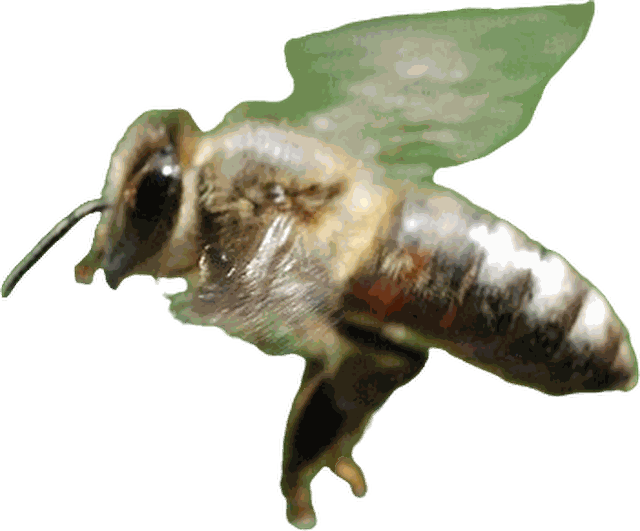
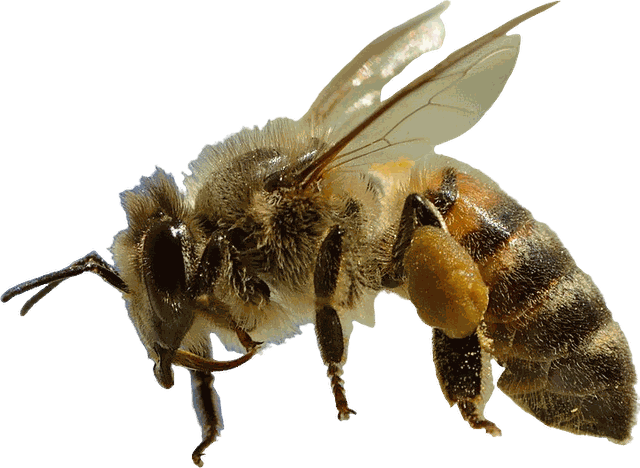
fix(art): ong, cáo, ngựa vằn, gấu túi, mèo khách dùng ảnh thật sạch nét; gấu nâu sáng hơn
- world-photos: ong nhìn ngang (bỏ ảnh cận viền xanh), cáo và ngựa vằn ảnh nghiêng đủ bốn chân thay model low-poly,
  gấu túi giữ 32-bit (hết bệt màu, răng cưa), mèo cắt sát thân cho khách Bếp nấu ăn (hết đứng trên không sau quầy)
- world-photos.mjs: chạy riêng vài ảnh, tuỳ chọn hq / degreen / roundEnd; CREDITS ghi nguồn và chỉnh sửa
- look.ts: fox, zebra sang photo('walk'); bright nhân sáng vật liệu (gấu), voi nhấc chân thấp hơn (đỡ lộ gan bàn chân đen)

diff --git a/app/src/ui/hybrid/RealAnimal.tsx b/app/src/ui/hybrid/RealAnimal.tsx
@@ -1,7 +1,7 @@
 import { useEffect, useMemo, useRef } from 'react';
 import { useFrame } from '@react-three/fiber';
 import { useAnimations, useGLTF } from '@react-three/drei';
-import { Box3, Group, BufferGeometry, Euler, Float32BufferAttribute, LoopRepeat, Matrix4, Vector3, type BufferAttribute, type Material, type Mesh, type Object3D, type SkinnedMesh } from 'three';
+import { Box3, Group, BufferGeometry, type Color, Euler, Float32BufferAttribute, LoopRepeat, Matrix4, Vector3, type BufferAttribute, type Material, type Mesh, type Object3D, type SkinnedMesh } from 'three';
 import { clone as cloneSkinned } from 'three/examples/jsm/utils/SkeletonUtils.js';
 import { reactJump, type Agent } from '../../core/steer';
 import type { WorldAnimal } from '../../core/worldAnimals';
@@ -24,7 +24,14 @@ type Part = { geo: BufferGeometry; base: Float32Array; mat: Material };
 type Baked = { parts: Part[]; box: Box3 };
 
 /** Gộp mọi mesh tĩnh về hệ toạ độ của gốc model, xoay về chuẩn */
-function bake(scene: Object3D, rot: Matrix4, skip?: string): Baked {
+/** Bản sao vật liệu sáng hơn `k` lần (nhân màu nền; texture giữ nguyên, không đụng vật liệu trong cache của useGLTF) */
+function brighter(mat: Material, k: number): Material {
+  const c = mat.clone() as Material & { color?: Color };
+  c.color?.multiplyScalar(k);
+  return c;
+}
+
+function bake(scene: Object3D, rot: Matrix4, skip?: string, bright = 1): Baked {
   scene.updateMatrixWorld(true);
   const inv = new Matrix4().copy(scene.matrixWorld).invert();
   const parts: Part[] = [];
@@ -62,7 +69,7 @@ function bake(scene: Object3D, rot: Matrix4, skip?: string): Baked {
     g.applyMatrix4(new Matrix4().multiplyMatrices(rot, new Matrix4().multiplyMatrices(inv, m.matrixWorld)));
     g.computeBoundingBox();
     box.union(g.boundingBox!);
-    parts.push({ geo: g, base: Float32Array.from(g.attributes.position.array), mat });
+    parts.push({ geo: g, base: Float32Array.from(g.attributes.position.array), mat: bright !== 1 ? brighter(mat, bright) : mat });
   });
   return { parts, box };
 }
@@ -101,9 +108,9 @@ export function RealAnimal({ def, look, agent, active, phase, onTap, onLoaded }:
       tilt.updateMatrixWorld(true);
       return { skinned: tilt, baked: null, box: new Box3().setFromObject(tilt, true) };
     }
-    const b = bake(gltf.scene, new Matrix4().makeRotationX(pitch).multiply(new Matrix4().makeRotationY(turn)).multiply(new Matrix4().makeRotationFromEuler(new Euler(rx, ry, rz))), look.skip);
+    const b = bake(gltf.scene, new Matrix4().makeRotationX(pitch).multiply(new Matrix4().makeRotationY(turn)).multiply(new Matrix4().makeRotationFromEuler(new Euler(rx, ry, rz))), look.skip, look.bright);
     return { skinned: null, baked: b, box: b.box };
-  }, [animated, gltf.scene, rx, ry, rz, turn, pitch, look.skip]);
+  }, [animated, gltf.scene, rx, ry, rz, turn, pitch, look.skip, look.bright]);
   useEffect(() => () => baked?.parts.forEach((p) => p.geo.dispose()), [baked]);
 
   const { scale, offset, size } = useMemo(() => {

diff --git a/app/src/ui/hybrid/look.ts b/app/src/ui/hybrid/look.ts
@@ -64,6 +64,8 @@ export type ModelLook = {
   side?: boolean;
   /** bỏ mesh có tên (hoặc tên vật liệu) bắt đầu bằng chuỗi này: đĩa nền kèm theo model */
   skip?: string;
+  /** nhân độ sáng màu nền của vật liệu (texture quá tối: gấu nâu gần như đen dưới ánh sáng của cảnh) */
+  bright?: number;
   scale?: number;
 };
 
@@ -74,9 +76,10 @@ const photo = (style: PhotoStyle, extra: Partial<PhotoLook> = {}): PhotoLook => 
 export const WORLD_LOOK: Record<string, Look> = {
   // Đồng cỏ
   horse: { kind: 'model', file: 'horse', rot: [0, 0, 0], deform: 'walk' },
-  zebra: { kind: 'model', file: 'zebra', rot: [0, 0, 0], deform: 'walk' },
+  // ngựa vằn, cáo: model tìm được là low-poly (chân có khối đen vuông), lạc phong cách cạnh thú ảnh thật → ảnh thật 2.5D
+  zebra: photo('walk'),
   giraffe: { kind: 'model', file: 'giraffe', rot: [0, Math.PI, 0], deform: 'walk', bake: true, skip: 'Circle' },
-  elephant: { kind: 'model', file: 'elephant', rot: [0, -Math.PI / 2, 0], deform: 'walk', bake: true, stepAmp: 0.11, trunk: true, ears: true },
+  elephant: { kind: 'model', file: 'elephant', rot: [0, -Math.PI / 2, 0], deform: 'walk', bake: true, stepAmp: 0.07, trunk: true, ears: true },
   lion: photo('walk'),
   // Ao hồ
   frog: photo('hop'),
@@ -86,9 +89,9 @@ export const WORLD_LOOK: Record<string, Look> = {
   // Rừng
   deer: { kind: 'model', file: 'deer', rot: [0, 0, 0], deform: 'walk' },
   stag: { kind: 'model', file: 'stag', rot: [0, 0, 0], deform: 'walk' },
-  fox: { kind: 'model', file: 'fox', rot: [0, 0, 0], deform: 'none', move: 'Walk', idle: 'Survey' },
+  fox: photo('walk'),
   raccoon: photo('walk'),
-  bear: { kind: 'model', file: 'bear', rot: [0, -Math.PI / 2, 0], deform: 'walk' },
+  bear: { kind: 'model', file: 'bear', rot: [0, -Math.PI / 2, 0], deform: 'walk', bright: 2.4 },
   // Biển
   // clip bơi gốc lặn ngóc gần thẳng đứng: dùng dáng gốc + uốn đuôi lên xuống cho thân luôn nằm ngang
   whale: { kind: 'model', file: 'whale', rot: [0, 0, 0], turn: Math.PI / 2, pitch: 0.3, deform: 'fluke', bake: true, side: true },

diff --git a/app/src/games/cook/logic.ts b/app/src/games/cook/logic.ts
@@ -69,7 +69,7 @@ export const CUSTOMERS = [
   { id: 'penguin', img: 'world-photos/penguin.png', sound: 'animal.penguin-sound' },
   { id: 'rabbit', img: 'world-photos/rabbit.png', sound: 'animal.rabbit-sound' },
   { id: 'dog', img: 'world-photos/dog.png', sound: 'animal.dog-sound' },
-  { id: 'cat', img: 'cards/feed/cat.png', sound: 'feed.sound.cat' },
+  { id: 'cat', img: 'world-photos/cat.png', sound: 'feed.sound.cat' },
   { id: 'pig', img: 'world-photos/pig.png', sound: 'animal.pig-sound' },
 ] as const satisfies readonly Customer[];
 

diff --git a/app/public/world-photos/CREDITS.md b/app/public/world-photos/CREDITS.md
@@ -2,7 +2,7 @@
 
 Ảnh chụp thật lấy từ Wikimedia Commons, tách nền (BiRefNet-lite), cắt sát thân và thu nhỏ bằng
 `scripts/world-photos.mjs` (thay đổi so với ảnh gốc: cắt nền, cắt khung, đổi cỡ, giảm màu). Giấy phép giữ
-nguyên như ảnh gốc; ảnh CC BY-SA khi đã chỉnh sửa vẫn theo CC BY-SA.
+nguyên như ảnh gốc; ảnh CC BY-SA khi đã chỉnh sửa vẫn theo CC BY-SA. Riêng fox.png bo tròn chóp đuôi (ảnh gốc cắt mất chóp đuôi), koala.png khử ám xanh ở mép lông.
 
 | File | Ảnh gốc | Tác giả | Giấy phép | Dung lượng |
 |---|---|---|---|---|
@@ -14,11 +14,13 @@ nguyên như ảnh gốc; ảnh CC BY-SA khi đã chỉnh sửa vẫn theo CC BY
 | koi.png | [Japan-Koi.jpg](https://commons.wikimedia.org/wiki/File:Japan-Koi.jpg) | Immanuel Giel | [CC0](http://creativecommons.org/publicdomain/zero/1.0/deed.en) | 37 KB |
 | frog.png | [Green treefrog.jpg](https://commons.wikimedia.org/wiki/File:Green_treefrog.jpg) | Brian Gratwicke | [CC BY 2.0](https://creativecommons.org/licenses/by/2.0) | 53 KB |
 | duck.png | [Mallard Drake (Anas Platyrhynchos).jpg](https://commons.wikimedia.org/wiki/File:Mallard_Drake_(Anas_Platyrhynchos).jpg) | David Merrett | [CC BY 2.0](https://creativecommons.org/licenses/by/2.0) | 34 KB |
-| bee.png | [Honey bee flying.JPG](https://commons.wikimedia.org/wiki/File:Honey_bee_flying.JPG) | Devcore | [CC0](http://creativecommons.org/publicdomain/zero/1.0/deed.en) | 52 KB |
+| bee.png | [Apis mellifera - Prunus padus - Keila.jpg](https://commons.wikimedia.org/wiki/File:Apis_mellifera_-_Prunus_padus_-_Keila.jpg) | Ivar Leidus | [CC BY-SA 4.0](https://creativecommons.org/licenses/by-sa/4.0) | 76 KB |
 | parrot.png | [Scarlet Macaws -11 100- (33404691865).jpg](https://commons.wikimedia.org/wiki/File:Scarlet_Macaws_-11_100-_(33404691865).jpg) | Tim Sackton from Somerville, MA | [CC BY-SA 2.0](https://creativecommons.org/licenses/by-sa/2.0) | 29 KB |
 | bat.png | [Mauritian flying fox (Pteropus niger) in flight 3.jpg](https://commons.wikimedia.org/wiki/File:Mauritian_flying_fox_(Pteropus_niger)_in_flight_3.jpg) | Charles J. Sharp | [CC BY-SA 4.0](https://creativecommons.org/licenses/by-sa/4.0) | 22 KB |
 | pigeon.png | [Common pigeon at Waterlow Park, London 01.jpg](https://commons.wikimedia.org/wiki/File:Common_pigeon_at_Waterlow_Park,_London_01.jpg) | Satdeep Gill | [CC BY-SA 4.0](https://creativecommons.org/licenses/by-sa/4.0) | 75 KB |
 | raccoon.png | [Raccoon in Central Park (35264).jpg](https://commons.wikimedia.org/wiki/File:Raccoon_in_Central_Park_(35264).jpg) | Rhododendrites | [CC BY-SA 4.0](https://creativecommons.org/licenses/by-sa/4.0) | 117 KB |
+| fox.png | [Red fox walking across the sand and rocks. (cd648e7a-155d-451f-67c2-22e947c5a1c6).jpg](https://commons.wikimedia.org/wiki/File:Red_fox_walking_across_the_sand_and_rocks._(cd648e7a-155d-451f-67c2-22e947c5a1c6).jpg) | NPS | Public domain | 60 KB |
+| zebra.png | [A plains zebra 3.jpg](https://commons.wikimedia.org/wiki/File:A_plains_zebra_3.jpg) | Jozef020 | [CC BY-SA 4.0](https://creativecommons.org/licenses/by-sa/4.0) | 54 KB |
 | lion.png | [Lion (Panthera leo) walking on the road ... (50133447418).jpg](https://commons.wikimedia.org/wiki/File:Lion_(Panthera_leo)_walking_on_the_road_..._(50133447418).jpg) | Bernard DUPONT from FRANCE | [CC BY-SA 2.0](https://creativecommons.org/licenses/by-sa/2.0) | 68 KB |
 | tiger.png | [Bengal tiger in Sanjay Dubri Tiger Reserve December 2024 by Tisha Mukherjee 15.jpg](https://commons.wikimedia.org/wiki/File:Bengal_tiger_in_Sanjay_Dubri_Tiger_Reserve_December_2024_by_Tisha_Mukherjee_15.jpg) | Tisha Mukherjee | [CC BY-SA 4.0](https://creativecommons.org/licenses/by-sa/4.0) | 55 KB |
 | sheep.png | [Ovella. Galiza.jpg](https://commons.wikimedia.org/wiki/File:Ovella._Galiza.jpg) | Luis Miguel Bugallo Sánchez (Lmbuga) | [CC BY-SA 3.0](https://creativecommons.org/licenses/by-sa/3.0) | 101 KB |
@@ -29,7 +31,8 @@ nguyên như ảnh gốc; ảnh CC BY-SA khi đã chỉnh sửa vẫn theo CC BY
 | rabbit.png | [Heimtier 004 2023 08 26.jpg](https://commons.wikimedia.org/wiki/File:Heimtier_004_2023_08_26.jpg) | Friedrich Haag | [CC BY-SA 4.0](https://creativecommons.org/licenses/by-sa/4.0) | 114 KB |
 | panda.png | [Panda Walking 4.jpg](https://commons.wikimedia.org/wiki/File:Panda_Walking_4.jpg) | Amaury Laporte | [CC BY 2.0](https://creativecommons.org/licenses/by/2.0) | 77 KB |
 | monkey.png | [20160802 - Rhesus macaque - Mount Popa, Myanmar - 7170.jpg](https://commons.wikimedia.org/wiki/File:20160802_-_Rhesus_macaque_-_Mount_Popa,_Myanmar_-_7170.jpg) | Jakub Hałun | [CC BY-SA 4.0](https://creativecommons.org/licenses/by-sa/4.0) | 59 KB |
-| koala.png | [AUS koala1.jpg](https://commons.wikimedia.org/wiki/File:AUS_koala1.jpg) | Bgabel | [CC BY-SA 3.0](https://creativecommons.org/licenses/by-sa/3.0) | 73 KB |
+| koala.png | [AUS koala1.jpg](https://commons.wikimedia.org/wiki/File:AUS_koala1.jpg) | Bgabel | [CC BY-SA 3.0](https://creativecommons.org/licenses/by-sa/3.0) | 134 KB |
 | penguin.png | [Aptenodytes patagonicus Nils Olav at Edinburgh zoo.jpg](https://commons.wikimedia.org/wiki/File:Aptenodytes_patagonicus_Nils_Olav_at_Edinburgh_zoo.jpg) | Grendelkhan | [CC BY-SA 4.0](https://creativecommons.org/licenses/by-sa/4.0) | 49 KB |
 | parrot-stand.png | [Scarlet macaw (Ara macao macao) Yasuni.jpg](https://commons.wikimedia.org/wiki/File:Scarlet_macaw_(Ara_macao_macao)_Yasuni.jpg) | Charles J. Sharp | [CC BY-SA 4.0](https://creativecommons.org/licenses/by-sa/4.0) | 82 KB |
 | chicken.png | [Kogut na ulicy w Chintown w Singapurze, 20240122 0853 2966.jpg](https://commons.wikimedia.org/wiki/File:Kogut_na_ulicy_w_Chintown_w_Singapurze,_20240122_0853_2966.jpg) | Jakub Hałun | [CC BY 4.0](https://creativecommons.org/licenses/by/4.0) | 78 KB |
+| cat.png | [Felis catus-cat on snow.jpg](https://commons.wikimedia.org/wiki/File:Felis_catus-cat_on_snow.jpg) | Von.grzanka | [CC BY-SA 3.0](https://creativecommons.org/licenses/by-sa/3.0) | 78 KB |
